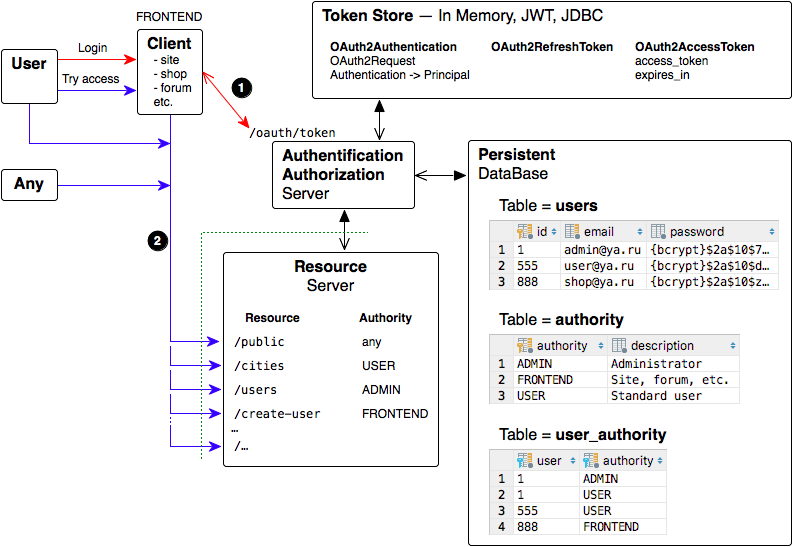
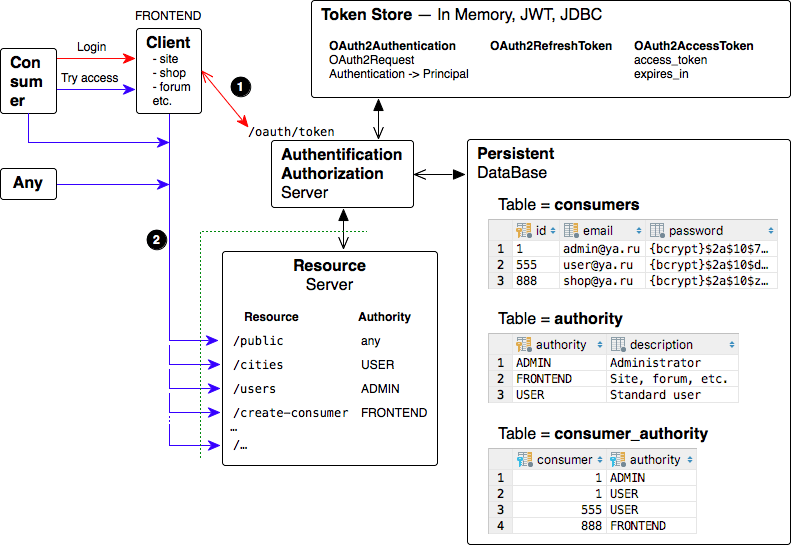
readme

diff --git a/README.md b/README.md
@@ -20,7 +20,7 @@ See `test\java\ru.dwfe.authtion` classes.
    * `/public`
    * `/cities`
    * `/users`
-   * `/check-user-id`
+   * `/create-consumer`
    * etc.
 
 ![AuthorityTest_pic](./img/AuthorityTest_pic.png)<br>
@@ -48,15 +48,14 @@ Templates for resources access:
 curl http://localhost:8080/v1/public
 curl http://localhost:8080/v1/cities -H "Authorization: Bearer ACCESS_TOKEN"
 curl http://localhost:8080/v1/users -H "Authorization: Bearer ACCESS_TOKEN"
-curl http://localhost:8080/v1/check-user-id -H "Authorization: Bearer ACCESS_TOKEN" -H "Content-Type: application/json; charset=utf-8" -X POST -d '{"id": "user"}'
-curl http://localhost:8080/v1/create-user -H "Authorization: Bearer ACCESS_TOKEN" -H "Content-Type: application/json; charset=utf-8" -X POST -d '{}'
-curl http://localhost:8080/v1/confirm-user -d confirmkey=AnyString
+curl http://localhost:8080/v1/create-consumer -H "Authorization: Bearer ACCESS_TOKEN" -H "Content-Type: application/json; charset=utf-8" -X POST -d '{"id": "user"}'
+...
 ```
 
-## UserPassword_CRU_Test
+## ConsumerPassword_CRU_Test
 
-### User: Create, Read, Update
-![UserPassword_CRU_Test_User](./img/UserPassword_CRU_Test_User.png)<br>
+### Consumer: Create, Read, Update
+![ConsumerPassword_CRU_Test_Consumer](./img/ConsumerPassword_CRU_Test_Consumer.png)<br>
 
 ### Password management
-![UserPassword_CRU_Test_Password](./img/UserPassword_CRU_Test_Password.png)<br>
+![ConsumerPassword_CRU_Test_Password](./img/ConsumerPassword_CRU_Test_Password.png)<br>
